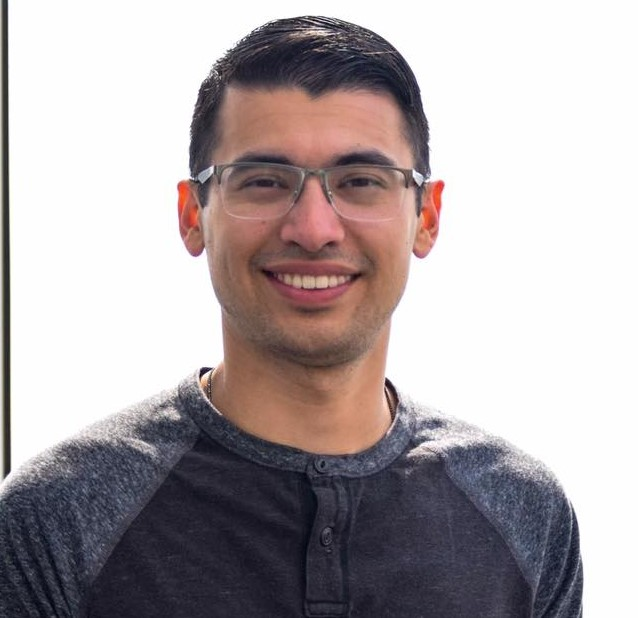
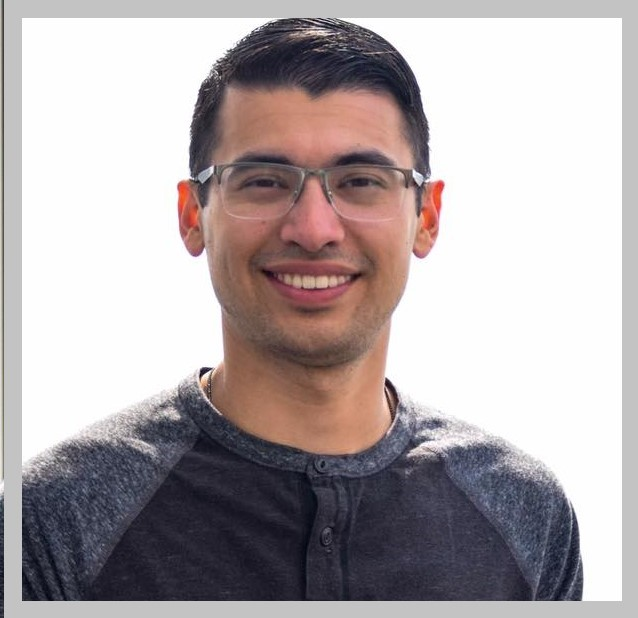
CSS corrections

Changed region(s): [[0.0, 0.0, 1.0, 1.0]]

diff --git a/assets/css/styles.css b/assets/css/styles.css
@@ -86,8 +86,9 @@ header nav ul li  {
 .Profile-img {
     background-image: url("../images/Profile Picture of me.jpg");
     background-position:left;
-    flex-basis:30%;
+    flex-basis:40%;
     background-repeat:no-repeat;
+    width:100%;
     
 }
 
@@ -142,9 +143,9 @@ header nav ul li  {
     display:flex;
     flex-wrap:wrap;
     justify-content:center;
-    width: 100%;
-    height:1200px;
-    margin:0 2.1%;
+    width:50%;
+    height:1000px;
+    margin-left:20%;
     padding:0 20px;
 }
 
@@ -156,27 +157,27 @@ header nav ul li  {
     left:5px;
     background-color:rgb(0, 51, 102);
     background-color:20px;
-    width:12%
+    width:20%
 }
 .work-text-run {
     font-size:25px;
     font:bold;
     position:relative;
     bottom:100px;
-    left:25.2%;
+    left:3.3%;
     background-color:rgb(0, 51, 102);
     width:8%
 }
 
 .img-box {
-    flex:40%;
-    padding:5px;
+    flex:35%;
+    padding:2%;
     margin:0 5px;
 }
 
 
 .img {
-    width: 100%;
+    width: 70%;
     height:200px;
     object-fit:fill;
     border:solid rgb(0, 51, 102) 5px;
@@ -193,11 +194,11 @@ header nav ul li  {
 }
 
 .run-buddy-img {
-    width:50%;
-    height:500px;
+    width:80%;
+    height: 300px;
     object-fit:fill;
     border:solid rgb(0, 51, 102) 5px;
-    margin:0 25%;
+    margin-left:25px;
     
 }
 
@@ -307,5 +308,13 @@ header nav ul li a {
 
 }
 
+.work-text-run {
+    left: 5.3%;
+    width:10%
+}
+
+.work-text {
+    width:30%;
+}
 
 }
